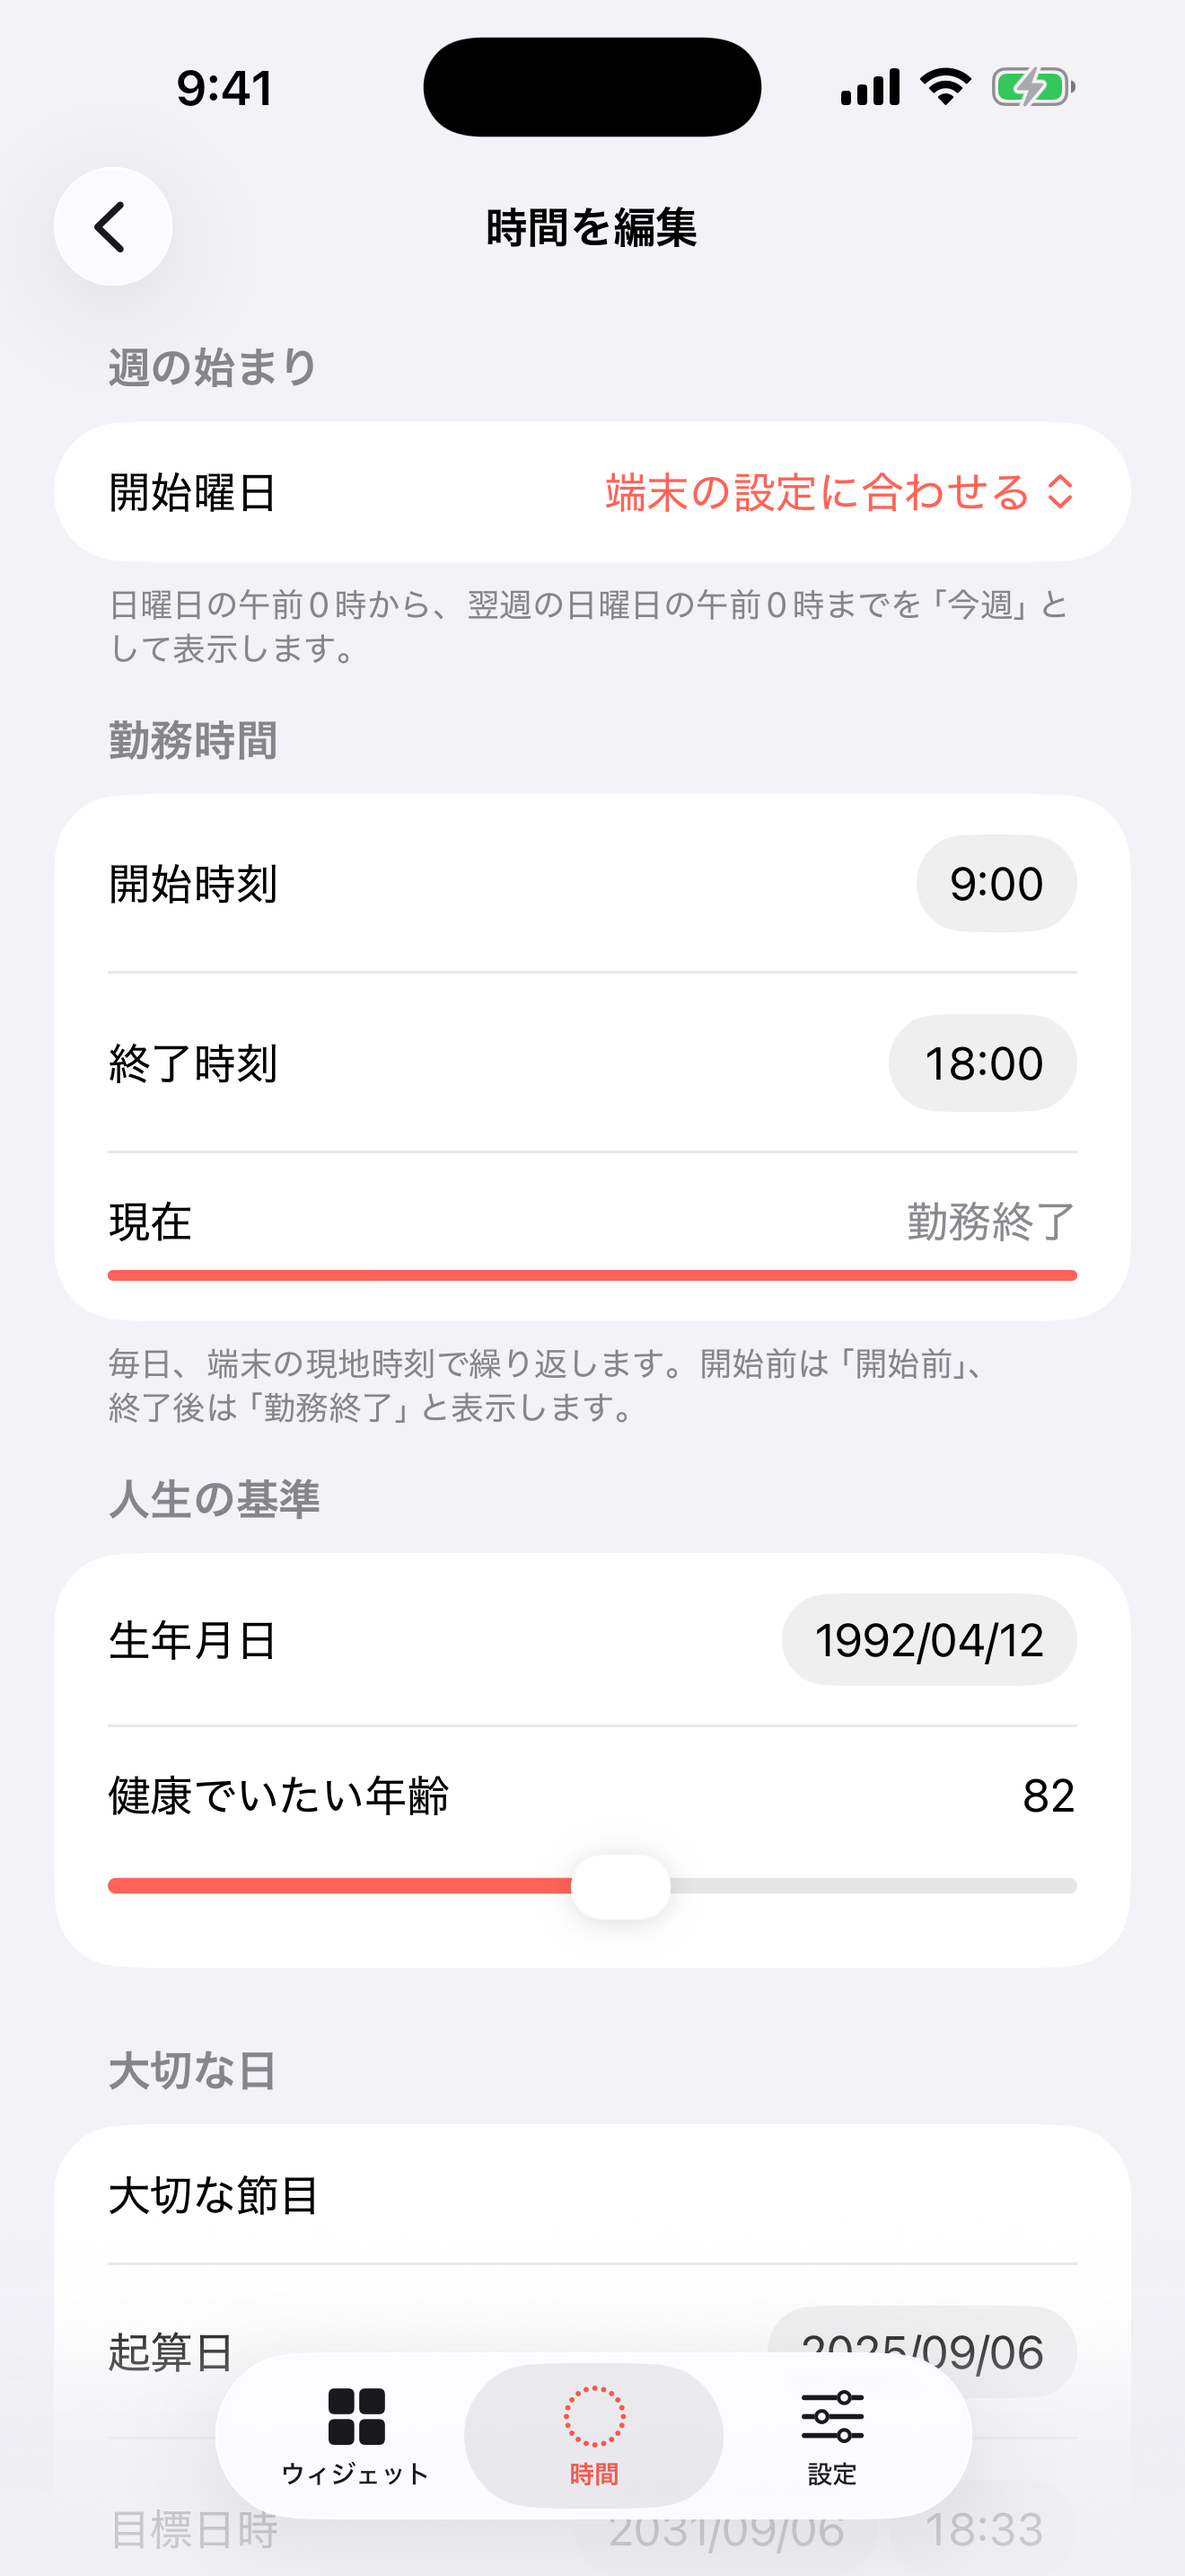
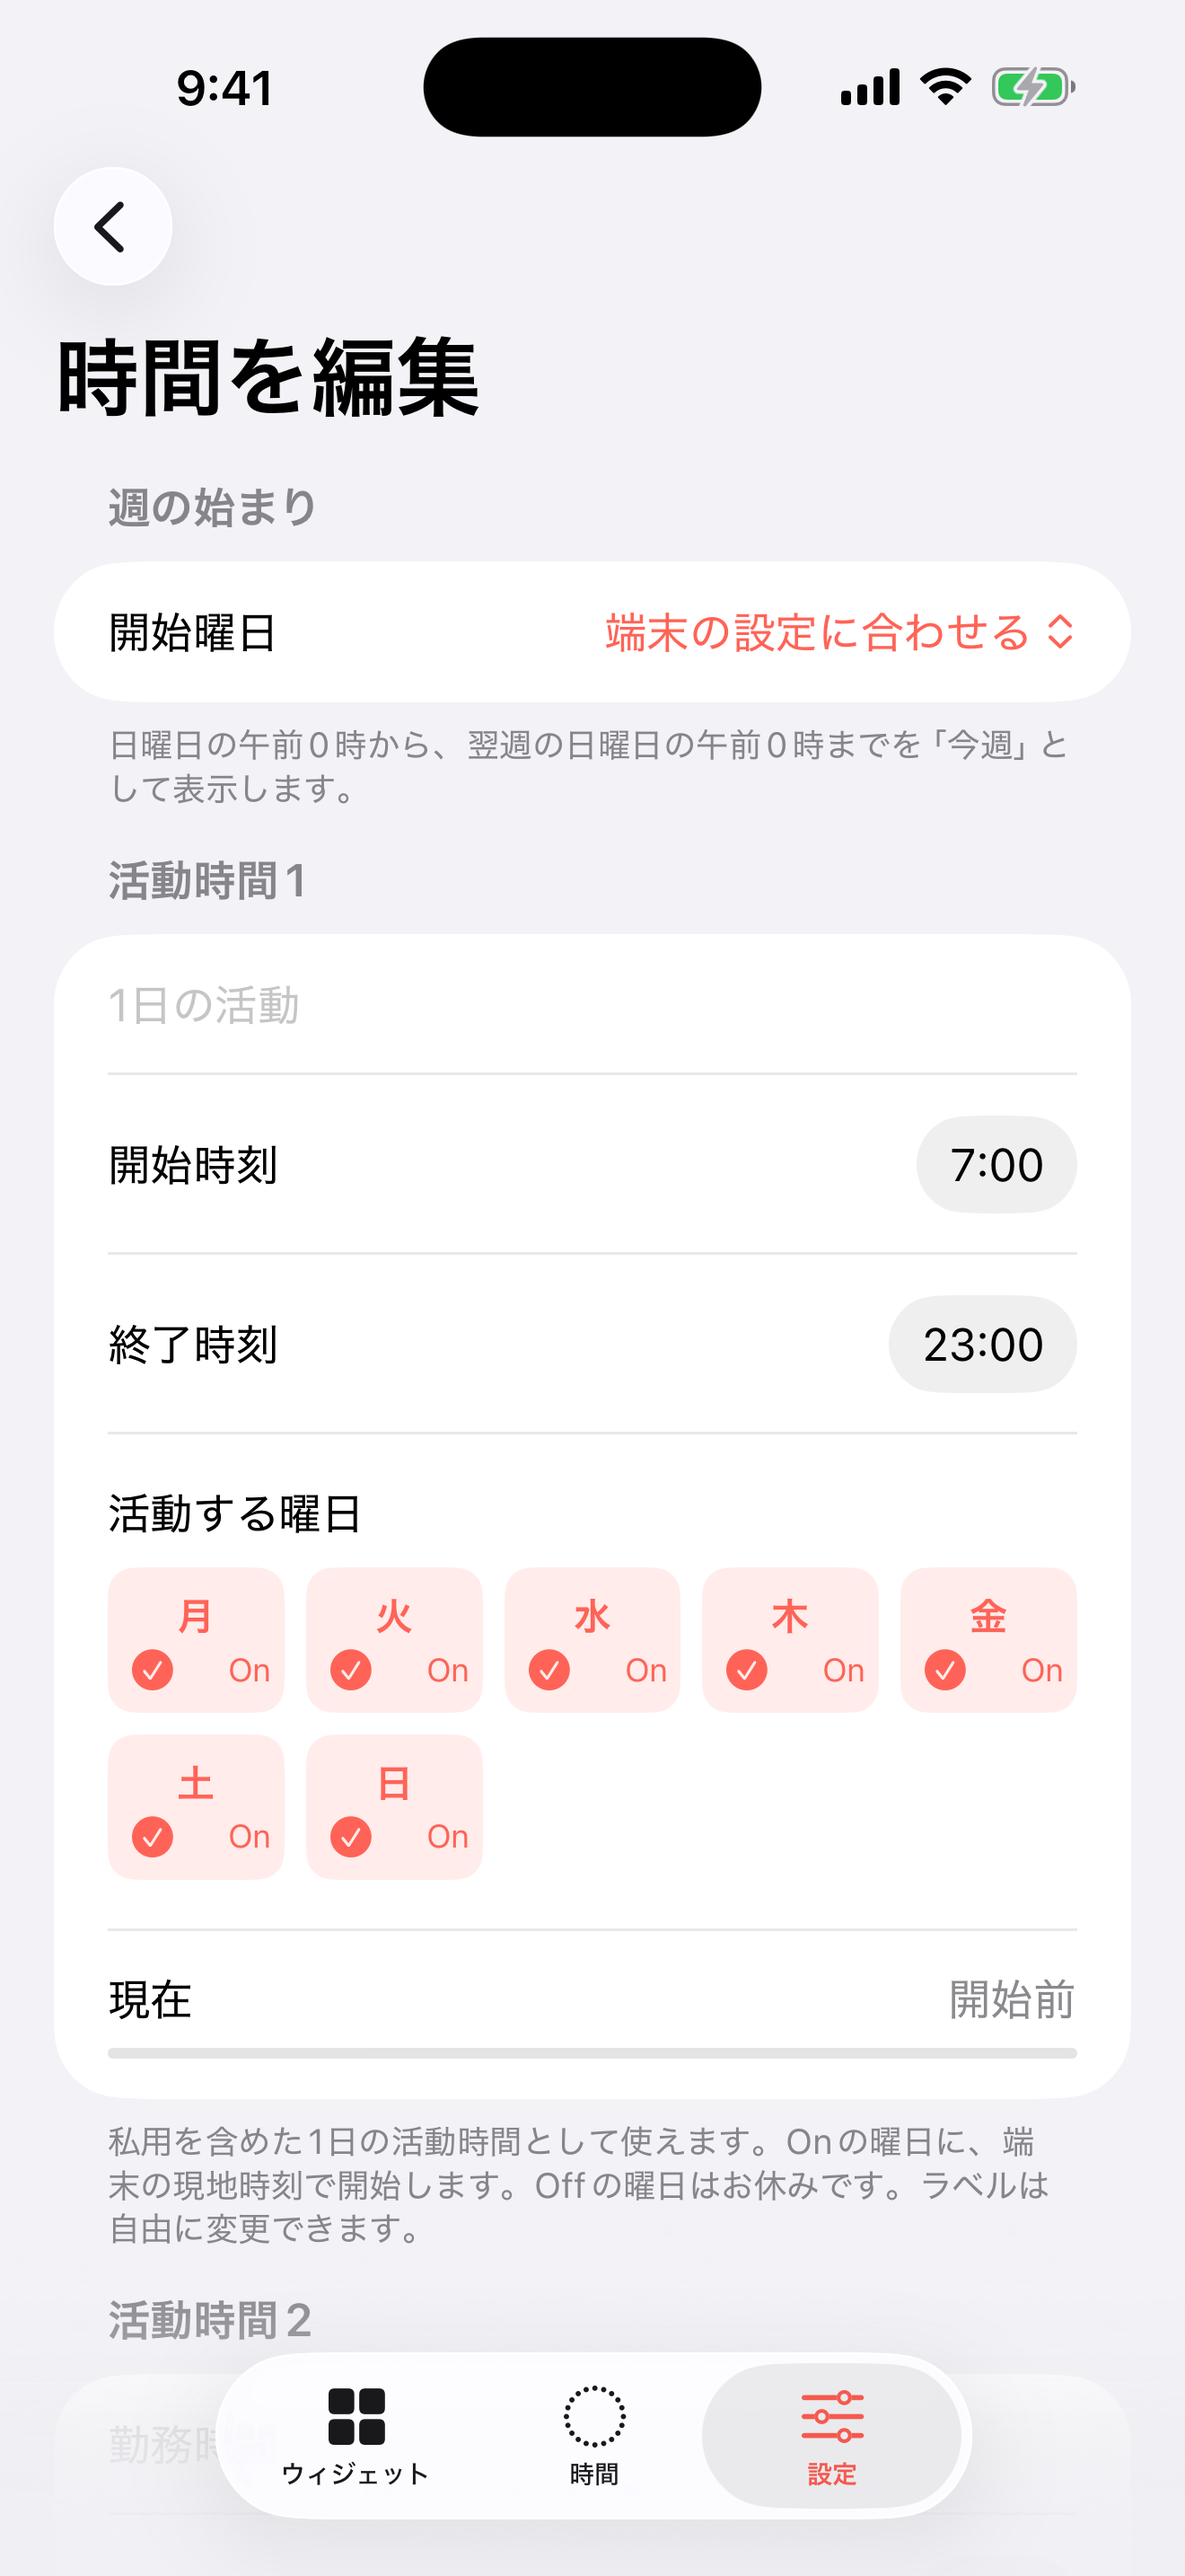
Unify iOS time settings and prepare 0.1.4 review assets

diff --git a/DaysYet/App/RootView.swift b/DaysYet/App/RootView.swift
@@ -11,9 +11,9 @@ struct RootView: View {
 #if DEBUG
         let arguments = ProcessInfo.processInfo.arguments
         let editsTimes = arguments.contains("--screenshot-edit-times")
-        let initialTab = arguments.contains("--screenshot-settings")
+        let initialTab = arguments.contains("--screenshot-settings") || editsTimes
             ? 2
-            : (arguments.contains("--screenshot-times") || editsTimes) ? 1 : 0
+            : arguments.contains("--screenshot-times") ? 1 : 0
         _selectedTab = State(initialValue: initialTab)
         _screenshotEditTimesPresented = State(initialValue: editsTimes)
 #else
@@ -31,17 +31,17 @@ struct RootView: View {
 
             NavigationStack {
                 TimeLibraryView()
-#if DEBUG
-                    .navigationDestination(isPresented: $screenshotEditTimesPresented) {
-                        ProfileEditorView()
-                    }
-#endif
             }
             .tabItem { Label(L10n.text("時間", "Times"), systemImage: "circle.dotted") }
             .tag(1)
 
             NavigationStack {
                 SettingsView()
+#if DEBUG
+                    .navigationDestination(isPresented: $screenshotEditTimesPresented) {
+                        ProfileEditorView()
+                    }
+#endif
             }
             .tabItem { Label(L10n.text("設定", "Settings"), systemImage: "slider.horizontal.3") }
             .tag(2)

diff --git a/DaysYet/Features/Home/TimeLibraryView.swift b/DaysYet/Features/Home/TimeLibraryView.swift
@@ -19,16 +19,6 @@ struct TimeLibraryView: View {
                         }
                         .padding(.bottom, 8)
 
-                        NavigationLink {
-                            ProfileEditorView()
-                        } label: {
-                            Label(L10n.text("時間の基準を編集", "Edit time reference points"), systemImage: "pencil")
-                                .frame(maxWidth: .infinity)
-                                .padding(.vertical, 14)
-                        }
-                        .buttonStyle(.bordered)
-                        .buttonBorderShape(.roundedRectangle(radius: 16))
-
                         ForEach(MetricKind.allCases) { metric in
                             MetricCard(
                                 snapshot: TimeProgressCalculator.snapshot(

diff --git a/AppStore/releases/0.1.4.md b/AppStore/releases/0.1.4.md
@@ -1,24 +1,25 @@
-# 0.1.4 次回リリース準備
+# 0.1.4 リリース準備
 
-対象はiOS / iPadOS 0.1.4 (6)とMacソースの0.1.4 (6)。この文書は次回リリースに向けた準備資料です。0.1.4のArchive、アップロード、App Store Connectの変更、審査提出、公開は行っていません。提出済みのiOS 0.1.3 (5)とmacOS 0.1.2 (3)のメタデータ、スクリーンショット、App Store Connect上の設定、審査記録は保持します。ソースのバージョン設定は次回候補に更新しています。提出時点の履歴は[リリース記録](../review/release-readiness.md)を参照してください。
+今回の提出対象はiOS / iPadOS 0.1.4 (6)です。Macソースも0.1.4 (6)ですが、今回のiOS審査提出には含めません。2026-09-08、App Store ConnectでiOS 0.1.3 (5)とmacOS 0.1.2 (3)がともに「配信準備完了」であることを確認しました。0.1.4は提出準備中で、Archive、アップロード、審査提出の完了はまだ記録していません。日英のiOSストア説明、プロモーションテキスト、リリースノート、審査メモを今回の候補に更新しました。過去の提出履歴は[リリース記録](../review/release-readiness.md)を参照してください。
 
 ## 変更内容
 
 - 「勤務時間」を2種類の「活動時間」に拡張。それぞれラベル名、開始・終了時刻、有効な曜日を変更可能。
+- iOSの時間編集への入口を「設定」内の「時間の基準」に統一し、Times画面の重複した編集ボタンを削除。
 - 新規利用時は「1日の活動」（私用を含む毎日7:00〜23:00）と「勤務時間」（月曜〜金曜9:00〜18:00、土日はOff）を用意。
 - 既存の勤務時刻と表示項目の選択を引き継ぎ、従来の勤務時間は全曜日有効のまま保持。
 - 日をまたぐ活動は開始日の曜日に従い、翌日がOffでも終了まで継続。開始と終了が同じ時刻なら24時間。終了時の表示は「活動終了」に統一。
 - iPhone / iPadアプリ、ホーム画面・ロック画面ウィジェット、Mac設定と常駐パネルに反映。ラベル、時刻、曜日は端末内だけに保存し、端末間の同期は行わない。
 
-## リリースノート案
+## リリースノート
 
 ### 日本語
 
-活動時間を2種類設定できるようになりました。私用を含めた1日の活動と勤務時間など、それぞれに好きな名前、開始・終了時刻、活動する曜日を設定できます。曜日ごとのOffや日をまたぐ活動にも対応し、これまでの勤務時刻と表示設定も引き継ぎます。
+活動時間を2種類設定できるようになりました。私用を含めた1日の活動と勤務時間など、それぞれに好きな名前、開始・終了時刻、活動する曜日を設定できます。曜日ごとのOffや日をまたぐ活動にも対応し、これまでの勤務時刻と表示設定も引き継ぎます。日付や活動時間の編集への入口を「設定」内の「時間の基準」にまとめました。
 
 ### English (U.S.)
 
-You can now set up two activity schedules, such as your whole day and work hours. Give each one a custom name, start and end times, and active weekdays. Set individual weekdays to Off and use overnight schedules. Your existing work times and display selections are preserved.
+You can now set up two activity schedules, such as your whole day and work hours. Give each one a custom name, start and end times, and active weekdays. Set individual weekdays to Off and use overnight schedules. Your existing work times and display selections are preserved. Editing dates and activity schedules now starts in one place: Settings > Time reference points.
 
 ## 開発時の検証（2026-09-06）
 
@@ -29,8 +30,18 @@ You can now set up two activity schedules, such as your whole day and work hours
 - 自動テストは既存データ移行、全曜日Off、開始曜日に属する日またぎ、24時間、夏時間、週始まり設定との独立性、ウィジェット選択を含む。
 - 公開ファイル・コンプライアンス・既存ストア画像の検証、生成プロジェクトの再生成を実施。ローカルXcode 26.6のコンパイラ検出停止には、既存のGit管理外の診断用回避策をビルド呼び出し単位で使用。プロジェクト設定への追加はない。
 
-## 次回提出時の作業
+## 今回の検証（2026-09-08）
+
+- 最新のmain (`6812112`) を取り込んでから、iOSの設定導線を修正。
+- Xcode 26.6 (17F113) の通常コンパイラで、iOS 67テストとmacOS 114テストが全件成功。コンパイラ検出用の回避策は未使用。
+- ビルド済みiOSアプリとWidgetは0.1.4 (6)。日本語リソースに旧表記「業務時間」が残っていないことを確認。
+- 公開ファイル検査、リリース用コンプライアンス検査、公開URL検査、全Git履歴のGitleaks検査（検出0件）が成功。
+- 日英・iPhone/iPadの20枚を0.1.4 (6)から再撮影し、全画像を目視確認。Timesに編集ボタンがなく、Settingsに編集入口があり、活動時間1・2が表示されることを確認。画像はiPhone 1320×2868、iPad 2064×2752、RGB・アルファなし。
+- XcodeGen 2.45.4からのプロジェクト・共有Scheme・Info.plist再生成が追跡ファイルと完全一致。独立したソースレビューで指摘なし。
+- 接続済みの実機は利用不可のため、今回の実機確認は未実施。
+
+## 提出前に残る作業
 
 - 提出する候補コミットを確定し、署名済みビルドで実機とホーム画面・ロック画面ウィジェットを確認する。上記の開発時検証を提出ビルドの検証として流用しない。
-- 次回提出が可能になった時点で、各プラットフォームのバージョンとビルドを確認し、ストア用メタデータ、スクリーンショット、プライバシー説明を候補に合わせて更新する。この文書のリリースノートはその際に転記する案であり、提出済みメタデータには適用していない。
-- [ローカルXcodeリリース手順](../../docs/RELEASING.md)に従い、候補のArchive、検証、アップロード、審査提出を別途実施する。
+- iOSの候補に合わせたスクリーンショットとプライバシー説明を確認し、今回更新したローカルのメタデータと審査メモをApp Store Connectの新バージョンに反映する。
+- [ローカルXcodeリリース手順](../../docs/RELEASING.md)に従い、候補のArchive、検証、アップロード、審査提出を実施し、その結果と提出ビルドの検証記録を追記する。

diff --git a/AppStore/review/release-readiness.md b/AppStore/review/release-readiness.md
@@ -1,5 +1,9 @@
 # Release readiness
 
+## Current iOS 0.1.4 candidate
+
+On 2026-09-08, App Store Connect showed iOS 0.1.3 (5) and macOS 0.1.2 (3) as Ready for Distribution. The historical submission records below describe their status on 2026-09-06. The current iOS-only candidate is 0.1.4 (6), with two customizable activity schedules and time editing consolidated under Settings. See [the 0.1.4 release record](../releases/0.1.4.md) for current verification and submission progress.
+
 ## iOS 0.1.3 update
 
 Final Submit for Review succeeded for iOS 0.1.3 (5) on 2026-09-06 at 19:04 JST. App Store Connect confirmed one submitted item and Waiting for Review (「審査待ち」), with that exact version and build in the submission details. The app, Widget extension, and tests share this version; the separately submitted Mac platform remains 0.1.2 (3). Japanese and English descriptions, promotional text, update notes, and review notes are saved. All 20 refreshed screenshots are attached to their corresponding language and device sets. Automatic release after approval and the existing non-phased release setting are preserved. Apple approval and public availability are pending; iOS 0.1.2 (4) remains the released version.
